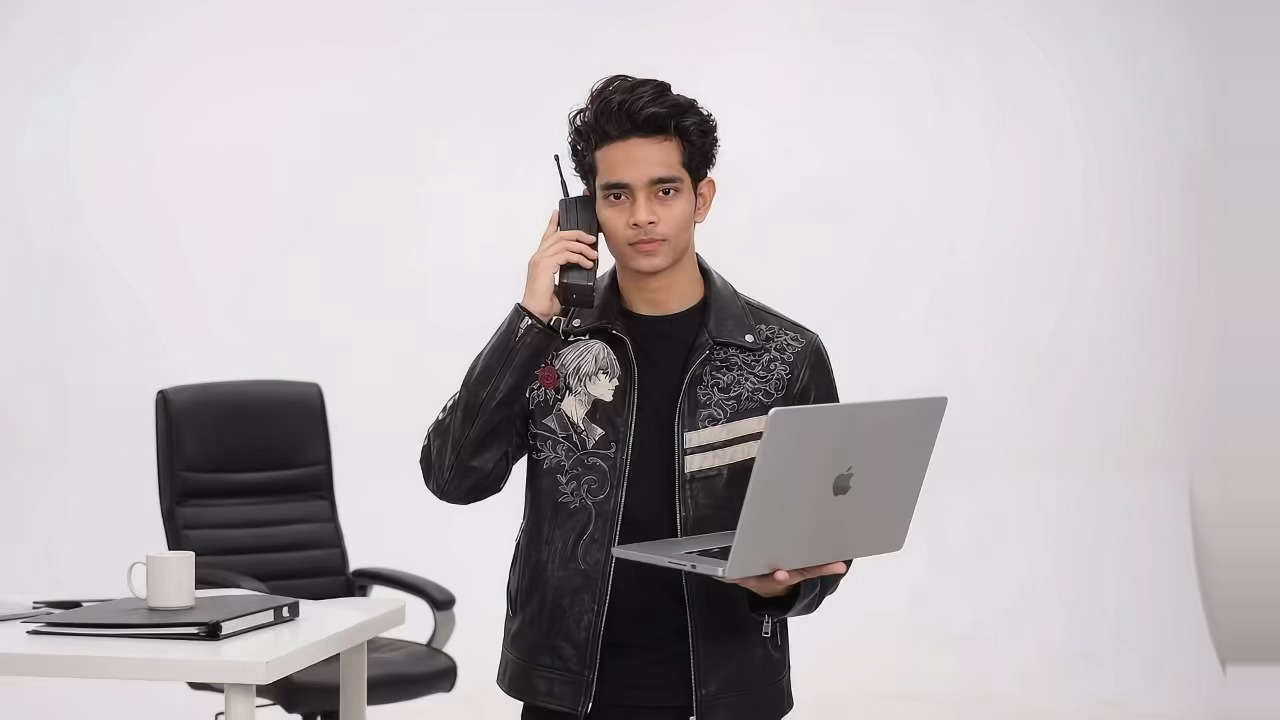
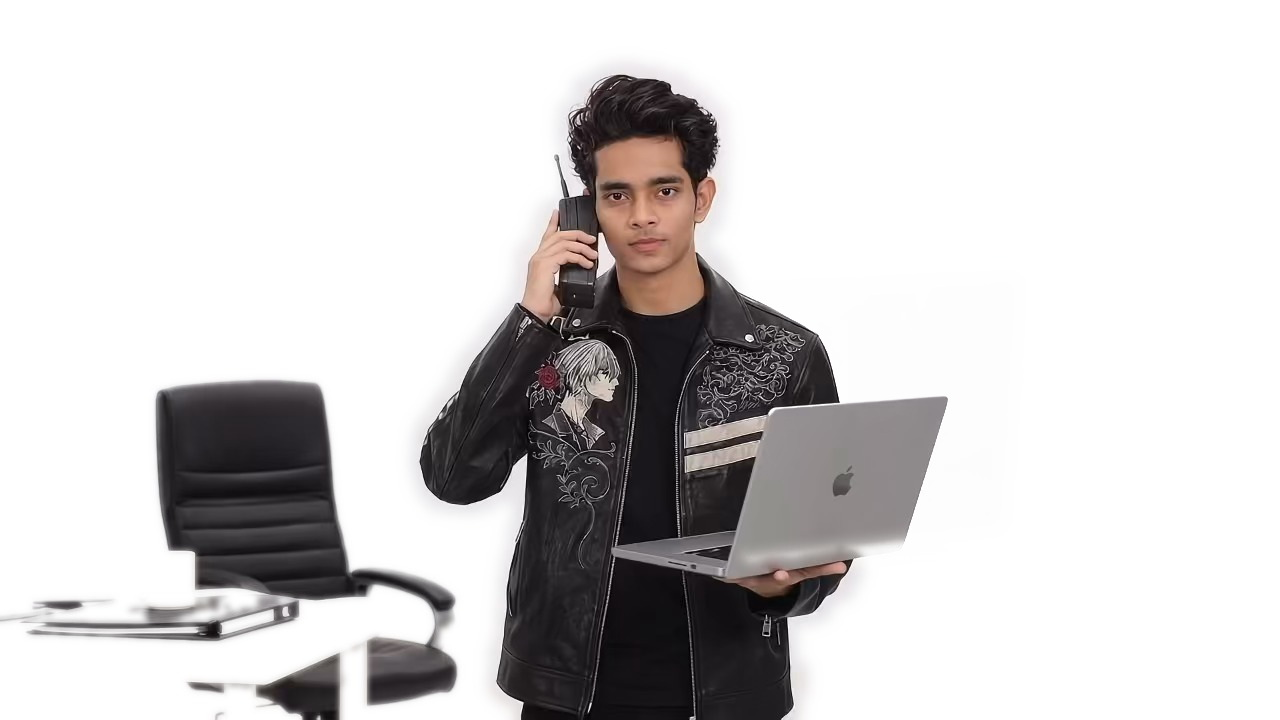
Publish Devesh Nigam portfolio

diff --git a/index.html b/index.html
@@ -34,12 +34,12 @@ img,video{display:block;max-width:100%}
 .js .pre{opacity:0!important}
 
 /* ================= HERO STAGE ================= */
-.stage{position:fixed;inset:0;overflow:hidden;background:linear-gradient(180deg,#ffffff 0%,#f2f2ef 55%,#e9e9e6 100%);z-index:1}
-.stage::before{content:"";position:absolute;inset:0;opacity:0;pointer-events:none;background:linear-gradient(180deg,#fbfbf9 0%,#f4f4f1 55%,#e6e6e2 100%)}
+.stage{position:fixed;inset:0;overflow:hidden;background:#ffffff;z-index:1}
+.stage::before{content:"";position:absolute;inset:0;opacity:0;pointer-events:none;background:#ffffff}
 /* ambient backdrop: a soft wall-only wash sampled from the photo's own office wall fills the whole stage,
    so wherever the photo ends it melts into the same wall tones — no foreign flat band, no visible rectangle edge,
    and no subject colours in the fill (the textures are pre-blurred crops of empty wall from each photo) */
-.backdrop{position:absolute;inset:0;z-index:0;overflow:hidden;background:#f1f1ee}
+.backdrop{position:absolute;inset:0;z-index:0;overflow:hidden;background:#ffffff}
 .bd{position:absolute;inset:0;background-size:cover;background-position:50% 50%;transition:opacity .8s ease}
 .bd-plate{background-image:url(assets/asset-001.jpg);opacity:1}
 .bd-case{background-image:url(assets/asset-002.jpg);opacity:0}
@@ -274,7 +274,7 @@ body.busy .hint{visibility:hidden}
 
 @media (max-width:820px){
   :root{--n:calc(100vw/430)}
-  .stage{background:#f4f4f1}
+  .stage{background:#ffffff}
   .stage::before{transition:opacity 1.6s}
   .stage.m-case::before{opacity:1}
   .frame.m-fade{--mt:64px;--ms:56px}
@@ -285,7 +285,7 @@ body.busy .hint{visibility:hidden}
   .tag.t1{left:12px;top:12px}.tag.t2{left:auto;right:12px;top:12px}
   .tag.t3{right:auto;left:12px;top:calc(12px + var(--n)*44)}
   .tag.t4{right:12px;top:calc(12px + var(--n)*44)}
-  .m-wm{position:absolute;left:4vw;width:92vw;top:calc(12px + var(--n)*96);overflow:visible}
+  .m-wm{position:absolute;left:3vw;width:94vw;top:calc(12px + var(--n)*96);overflow:hidden}
   .m-wm text{font-family:'Inter Tight';font-weight:900;font-size:208px;letter-spacing:-5px}
   .m-script{position:absolute;right:6vw;top:calc(12px + var(--n)*96 + 14vw);font-family:'Caveat Brush',cursive;font-size:15vw;line-height:1;color:#11402c;white-space:nowrap;transform:rotate(-7deg);text-shadow:0 0 6px #fff,0 0 14px #fff,0 2px 10px rgba(255,255,255,.6)}
   .m-badge{position:absolute;right:2vw;top:calc(12px + var(--n)*96 + 16.5vw + 12px);width:calc(582px*var(--mbs));height:calc(1030px*var(--mbs));z-index:5;transform-origin:50% 0;animation:sway 3.4s ease-in-out infinite alternate;touch-action:none;cursor:grab}
@@ -398,9 +398,9 @@ body.busy .hint{visibility:hidden}
 </div>
 
 <div class="ui">
-  <svg class="m-only m-wm pre" id="mWm" viewBox="0 0 1280 190" preserveAspectRatio="none" aria-hidden="true">
+  <svg class="m-only m-wm pre" id="mWm" viewBox="0 0 1600 190" preserveAspectRatio="xMidYMid meet" aria-hidden="true">
     <defs><linearGradient id="wmg2" x1="0" y1="0" x2="0" y2="1"><stop offset="0" stop-color="#0d100f" stop-opacity="1"/><stop offset=".5" stop-color="#232825" stop-opacity=".92"/><stop offset="1" stop-color="#8b968f" stop-opacity=".5"/></linearGradient></defs>
-    <text x="30" y="162" textLength="1220" lengthAdjust="spacingAndGlyphs" fill="url(#wmg2)">DEVESH NIGAM</text>
+    <text x="800" y="162" text-anchor="middle" fill="url(#wmg2)">DEVESH NIGAM</text>
   </svg>
   <div class="m-only m-script pre" id="mScript">ai-creator</div>
   <div class="m-only m-badge" id="mBadge"></div>
@@ -662,6 +662,29 @@ function badgeEls(){ return [badge, badgeClone]; }
 function animBadgeEls(){ return [badge, mBadge]; }
 function wmEls(){ return [wm, mWm]; }
 function scriptEls(){ return [scriptEl, mScript]; }
+/* MOBILE WORDMARK FIT — root cause of the clipped "M": the old mobile SVG relied on
+   textLength="1220" to squeeze the name into a 1280-wide viewBox, but at weight 900
+   "DEVESH NIGAM" is naturally ~1404 units wide at 208px (Inter Tight). Browsers that ignore
+   textLength (the user's phone) let the text run from x=30 to ~1434 — past the viewBox — and
+   the old overflow:visible let the M paint past the SVG box and off the screen (~107vw).
+   Chromium honours textLength, which is why probes at 390px always "passed".
+   The static markup now centres the text in a wider 1600 viewBox (natural width fits with
+   margin on both sides, no textLength), uses meet-fit + overflow:hidden, and this pass
+   measures the REAL rendered text on THIS device — whatever font or browser it has — and
+   rewrites the viewBox to the measured width plus padding, so the full name, M included,
+   always sits inside the screen with clear margin at every phone width.
+   (Same device-independent fit approach as the sibling portfolio's run-23 fix; viewBox
+   widened 1440 -> 1600 for the longer name.) */
+function fitMobileWm(){
+  if(!mWm || !mWm.getClientRects().length) return;
+  try{
+    var t = mWm.querySelector('text'); if(!t) return;
+    var bb = t.getBBox();
+    if(!bb || !(bb.width > 0)) return;
+    var pad = 36;
+    mWm.setAttribute('viewBox', (bb.x - pad).toFixed(1) + ' 0 ' + (bb.width + pad*2).toFixed(1) + ' 190');
+  }catch(e){}
+}
 function isMobile(){ return W <= 820; }
 function setN(){ var n = isMobile() ? W/430 : Math.min(W/1440, H/900); root.style.setProperty('--n', n + 'px'); }
 
@@ -675,6 +698,14 @@ function pose(m){
   if(m === 'case'){
     /* fit the WHOLE laptop (frame rect x 180..1101, y 66..665) inside the viewport — same math on phone, tablet and PC */
     s = Math.min(W/921, H/599) * 0.98;
+    /* MOBILE: pin the frame near the TOP of the viewport (12px down, so the video box still
+       reads as a full-bleed card). On a phone the case box sits mid-screen, so the dive's own
+       footage — the camera pushes Devesh's head out of the top of the 720px frame from ~2s
+       in — slices his hair across the middle of the screen. Pinned to the top, the hair can
+       only leave through the viewport's top edge, and the 12px offset keeps it visibly clear
+       of that edge (≥12px) until leg 2 hides the video; the whole laptop still fits the
+       width. Desktop keeps the centred pose. */
+    if(isMobile()) return {x:W/2 - 640*s, y:12, s:s};
     return {x:W/2 - 640*s, y:H/2 - 365*s, s:s};
   }
   if(isMobile()){
@@ -722,7 +753,7 @@ function place(m){
 function setFadeClass(){ frame.classList.toggle('d-fade', !isMobile()); frame.classList.toggle('m-fade', isMobile()); }
 function onResize(){
   W = window.innerWidth; H = window.innerHeight;
-  setN(); setFadeClass();
+  setN(); setFadeClass(); fitMobileWm();
   if(mode !== 'hero') return;
   if(busy){ place(curPose); }
   else{ frame.classList.remove('glide'); place('hero'); }
@@ -736,6 +767,7 @@ function startSway(){ /* the sway is a CSS animation on .badge / .m-badge — no
 function stopSway(){ swayAnims.forEach(function(a){ try{ a.cancel(); }catch(e){} }); swayAnims = []; }
 function entrance(){
   if(entered) return; entered = true;
+  fitMobileWm();
   var tags = $all('.tag');
   if(RM){ $all('.pre').forEach(function(e){ e.classList.remove('pre'); }); return; }
   tags.forEach(function(t, i){
@@ -765,6 +797,7 @@ function entrance(){
 }
 var plateReady = new Promise(function(res){ if(plate.complete) res(); else{ plate.addEventListener('load', res); plate.addEventListener('error', res); } });
 Promise.race([Promise.all([document.fonts.ready, plateReady]), wait(2500)]).then(function(){ requestAnimationFrame(entrance); });
+if(document.fonts && document.fonts.ready){ document.fonts.ready.then(function(){ fitMobileWm(); }); }
 setTimeout(entrance, 4000);
 /* ID card swing — a BIG, clearly visible left-to-right pendulum (see @keyframes swingBig:
    -24deg -> +20deg -> -15deg -> +10deg -> -6deg -> +3deg -> rest, 3s). It REPLACES the gentle
@@ -878,7 +911,13 @@ function playTrans(){
       if(done) return;
       var d = trans.duration || 5.96, p = d ? trans.currentTime/d : 1;
       if(p >= 0.995){ finish(); return; }
-      try{ trans.playbackRate = Math.max(1.2, 1.8 + 2.4*Math.sin(Math.PI*Math.min(p*1.08, 1))); }catch(e){}
+      /* MOBILE: cap the dive at ~1.15x. The video races to 4.2x on desktop, so it reaches the
+         head-cutting part (~2s in) in ~0.7s of wall time — mid-glide, while the frame is still
+         travelling. At ~1.15x the hair is still just visible at the top edge when leg 2 hides
+         the video (2.3s). Desktop rate untouched. */
+      var rate = Math.max(1.2, 1.8 + 2.4*Math.sin(Math.PI*Math.min(p*1.08, 1)));
+      if(isMobile()) rate = 1.15;
+      try{ trans.playbackRate = rate; }catch(e){}
       requestAnimationFrame(tick);
     }
     var pr = trans.play();
